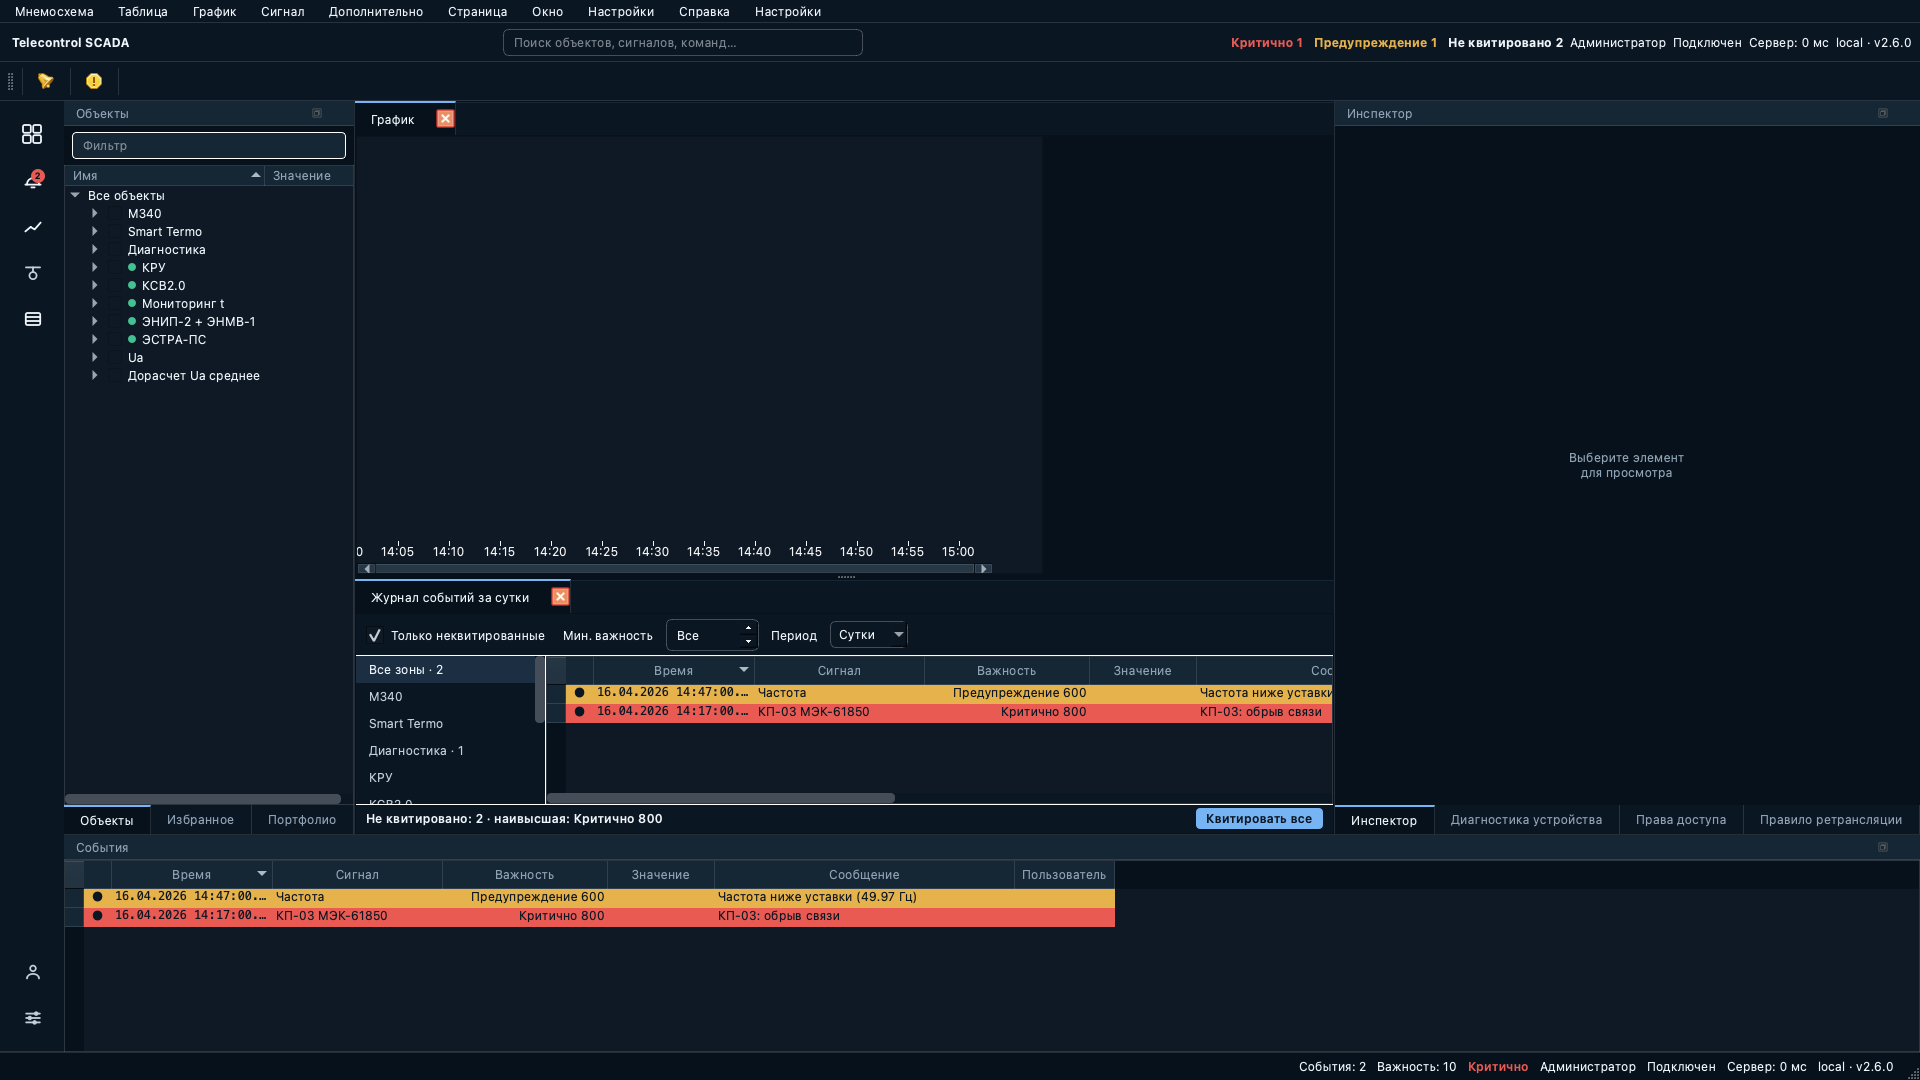
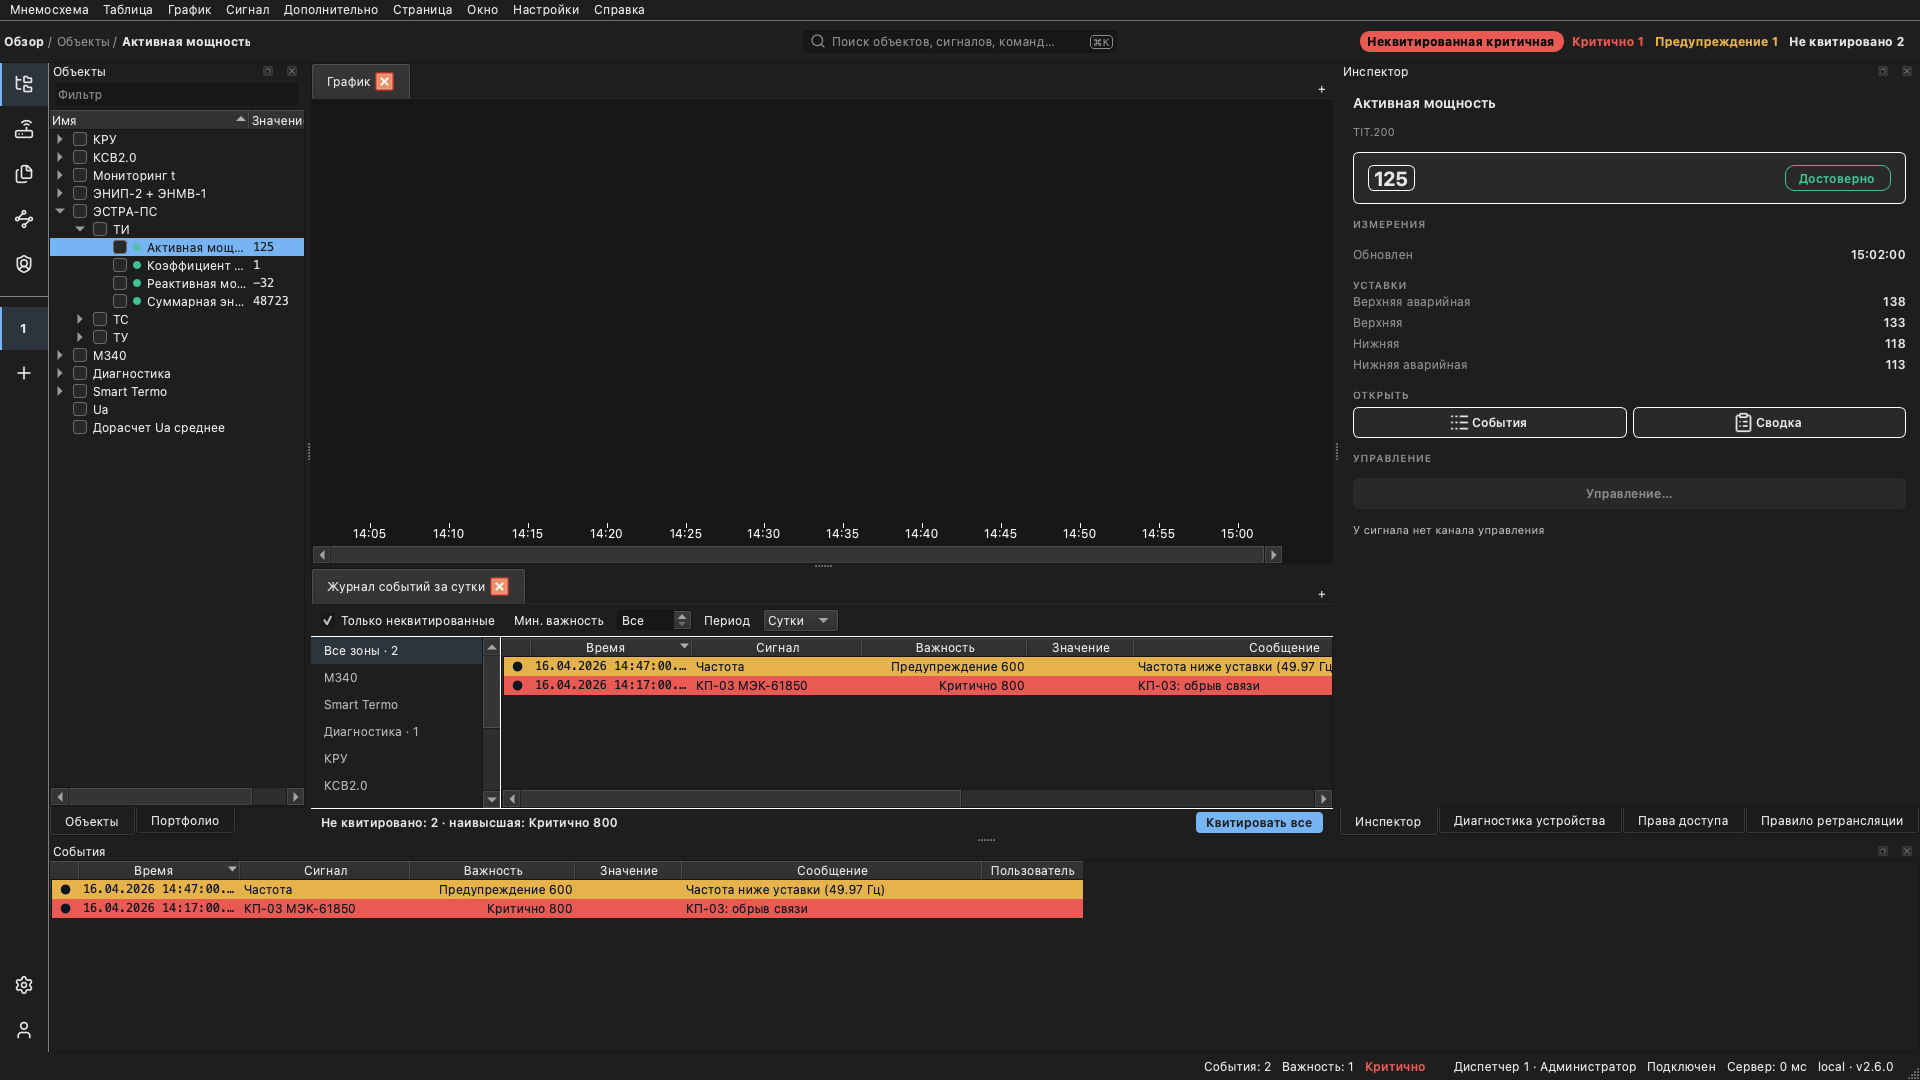
docs: publish the Overview landing capture to the manual
`workbench-overview.png` was generated and embedded on client/workbench.md
but sat outside `current_generator_owned_subset`, so the publish step never
copied it and the manual carried the 2026-08-08 render -- the one whose
right-hand third was the Inspector's "select an item" placeholder.

Graduated into the subset, which is what an image needs to be published,
after the review that graduation calls for: every claim the «Обзор» section
makes was checked against the render (sidebar with the object tree, the
dominant trend at ~two thirds, the current-mode alarm strip with
unacknowledged-only pre-set, the Inspector on the right, the severity tiles,
the empty trend). Published from the committed gallery render, so the
manual, the gallery and the row's recorded digest all agree.

One claim did not survive that review, and it is the page contradicting
itself: the section said the sidebar hosts «Объекты», «Избранное» and
«Портфолио» as sibling tabs. MakeOverviewPage seeds only Struct and
Portfolio -- the Objects rail mode's panes -- and Favorites belongs to the
Files mode (pane_modes.cpp), which is exactly what this page's own activity
rail section already says two hundred lines earlier. Corrected in RU and the
en/ mirror to name the two panes the landing shows and to say where
«Избранное» lives, so the prose matches the image now being published.

Only this one image ships. The other eight subset members have unreviewed
[…]

diff --git a/client/workbench.md b/client/workbench.md
@@ -238,10 +238,12 @@ permalink: /client/workbench/
 тревог (журнал событий в режиме текущих, только неквитированные события),
 справа — инспектор.
 
-Боковая панель совмещает несколько вкладок: «Объекты» (дерево объектов с
-фильтром и индикаторами достоверности), «Избранное» и «Портфолио».
-Переключение между ними — вкладками внизу панели; открытой по умолчанию
-остаётся вкладка «Объекты». Сводка по важности при этом
+Боковая панель несёт вкладки режима «Объекты»: «Объекты» (дерево объектов с
+фильтром и индикаторами достоверности) и «Портфолио». Переключение между
+ними — вкладками внизу панели; открытой по умолчанию остаётся вкладка
+«Объекты». Вкладок других режимов на странице нет: «Избранное», например,
+относится к режиму «Файлы», а боковая панель приводится к составу
+выбранного режима. Сводка по важности при этом
 всегда видна в плитках верхней панели. График пуст, пока оператор не
 добавит в него сигналы; раскладка страницы сохраняется в профиле как
 обычная страница.

diff --git a/en/client/workbench.md b/en/client/workbench.md
@@ -225,9 +225,11 @@ dominant trend on top (about two thirds of the screen) with the
 active-alarm table under it (the event journal in current mode,
 unacknowledged events only), and the Inspector on the right.
 
-The sidebar hosts several panes: "Objects" (the object tree with its filter
-and quality dots), "Favorites" and "Portfolio". The tabs along the bottom of
-the panel switch between them; "Objects" is the one open by default. The severity summary stays
+The sidebar carries the "Objects" mode's panes: "Objects" (the object tree
+with its filter and quality dots) and "Portfolio". The tabs along the bottom
+of the panel switch between them; "Objects" is the one open by default. Other
+modes' panes are absent from the page — "Favorites", for one, belongs to the
+"Files" mode, and the sidebar is conformed to whichever mode is selected. The severity summary stays
 visible in the top-bar tiles throughout. The trend is empty until the
 operator adds signals to it; the page layout is saved in the profile as a
 regular page.
